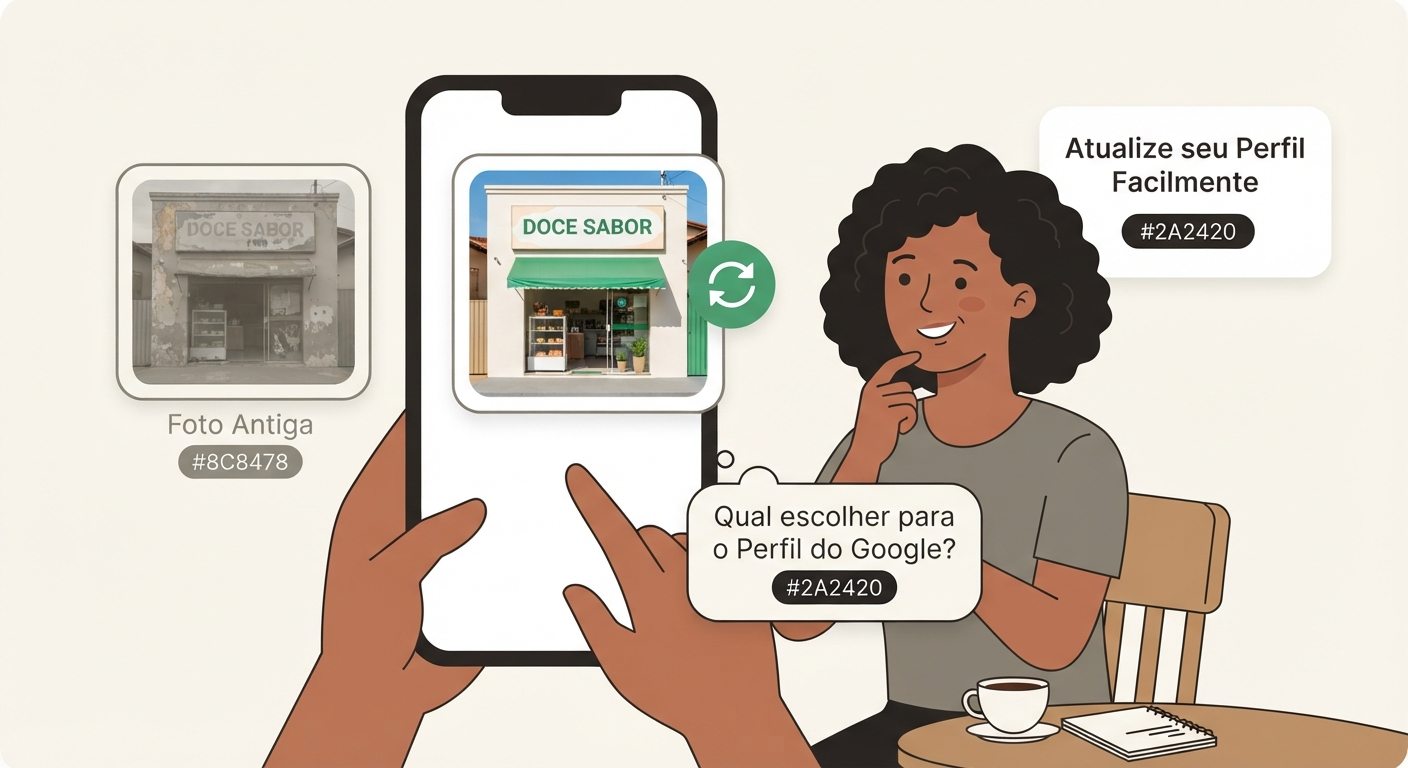
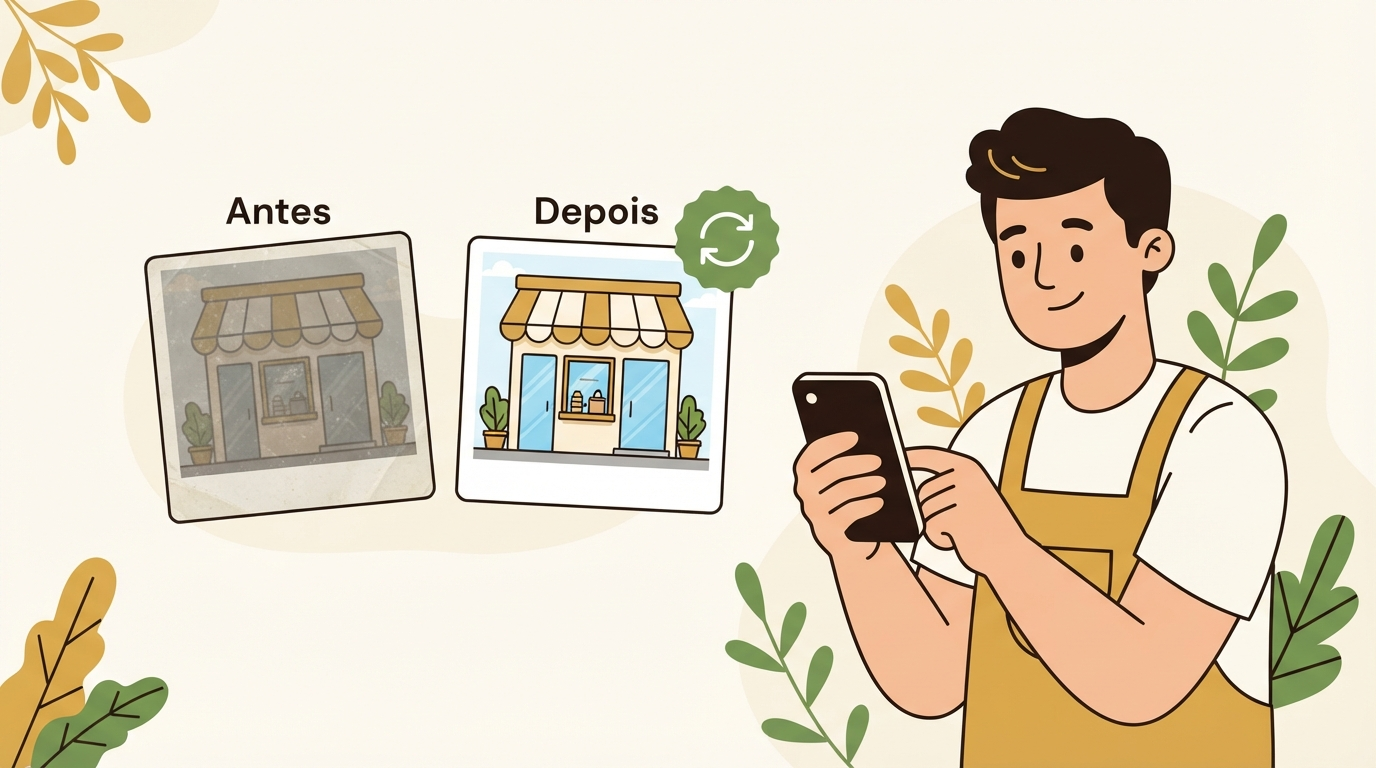
fix: integra 2 imagens da 2a rodada (R2v2, R7v2); first-checkup/cena-01 devolvida

diff --git a/docs/07-CHANGELOG.md b/docs/07-CHANGELOG.md
@@ -1,5 +1,15 @@
 # Changelog
 
+## 2026-09-19 — Segunda rodada: 2 das 3 devolvidas aprovadas; `first-checkup/cena-01` volta pela 2ª vez
+
+Segunda leva do usuário em `imagens-correçao` (pasta substituída, 3 arquivos: `cena-01`, `cena-03`, `cena-04`), contra os prompts corrigidos R2v2/R7v2/R10v2.
+
+**Aprovadas e integradas (2):** `profile-represents-your-business/cena-03` (frase exata, campo sem rótulo, ícones sem texto — perfeita) e `photos-help-customers-decide/cena-04` ("Antes"/"Depois", selo verde só com ícone — perfeita). Com elas, **10 das 11 imagens do lote estão zeradas**.
+
+**Devolvida de novo (1):** `cena-01.jpg` (era `first-profile-checkup/cena-01`, R10v2) — o cabeçalho do celular continua em inglês ("Company Profile"; antes era "Company Profile summary"). Duas tentativas com instrução de "cabeçalho sem palavras" falharam no mesmo ponto, então a correção muda de estratégia: o R10v3 abaixo remove a barra de cabeçalho da composição (a tela do celular começa direto no nome do negócio), em vez de pedir para esvaziá-la. Arquivo antigo com defeito continua no ar só nesta cena.
+
+Validado com `npm run lint` e `npm run build`, ambos limpos.
+
 ## 2026-09-19 — 8 das 11 imagens regeneradas integradas; 3 devolvidas para regenerar
 
 A pedido do usuário ("criei uma pasta imagens-correçao, faz uma analise das imagens e implementa no projeto"), analisadas uma a uma as 11 imagens de `C:\Users\kairo\Documents\Projetos\imagens-correçao` (nomes genéricos `cena-0N`, mapeadas pelo conteúdo visível) contra os prompts R1–R11 de `docs/14-PROMPTS-DE-IMAGEM-LICOES.md` e os critérios da auditoria (`docs/16`, sem inglês, sem palavra inventada, sem código vazado).
